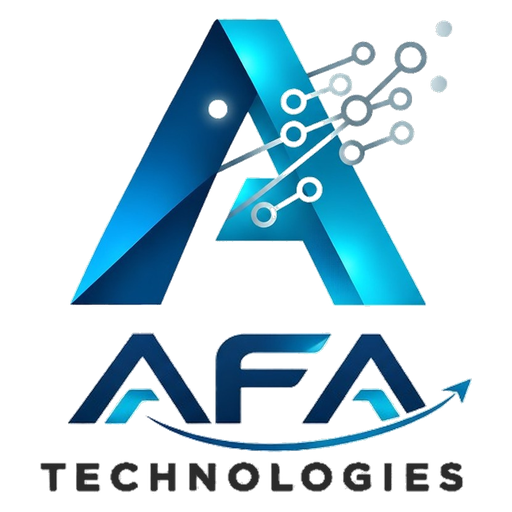
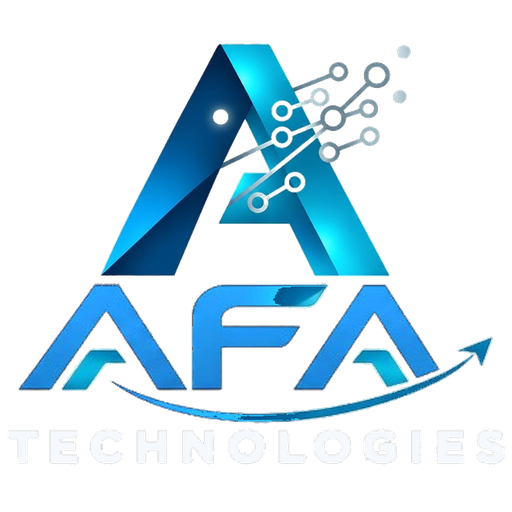
Enlarge AFA Technologies text and enhance visibility and contrast on dark background

Changed region(s): [[0.0312, 0.0312, 0.9688, 0.9688], [0.3438, 0.4375, 0.375, 0.5312]]

diff --git a/AFA-Technologies-Website.html b/AFA-Technologies-Website.html
@@ -79,7 +79,7 @@ ul{margin:0;padding:0;list-style:none}
 .site-header{position:sticky;top:0;z-index:50;height:var(--nav-h);background:rgba(255,255,255,.94);backdrop-filter:saturate(1.4) blur(12px);-webkit-backdrop-filter:saturate(1.4) blur(12px);border-bottom:1px solid var(--line)}
 .site-header .wrap{height:100%;display:flex;align-items:center;justify-content:space-between;gap:24px}
 .brand{display:flex;align-items:center;gap:12px;text-decoration:none}
-.brand img{height:52px;width:auto;object-fit:contain}
+.brand img{height:66px;width:auto;object-fit:contain}
 .brand-name{font-family:var(--display);font-weight:800;font-size:1.3rem;letter-spacing:-.02em;color:var(--navy-700);line-height:1}
 .brand-name small{display:block;font:600 .62rem/1 var(--body);letter-spacing:.32em;color:var(--muted);margin-top:5px;text-transform:uppercase}
 .nav{display:flex;align-items:center;gap:30px}
@@ -1841,7 +1841,7 @@ ul{margin:0;padding:0;list-style:none}
 }
 .footer-logo-img {
   width: auto;
-  height: 52px;
+  height: 74px;
   display: block;
   object-fit: contain;
 }
@@ -2748,7 +2748,7 @@ ul{margin:0;padding:0;list-style:none}
 <header class="site-header">
   <div class="wrap">
     <a class="brand" href="#home" aria-label="AFA Technologies, back to top">
-      <img src="images/logo.webp" alt="AFA Technologies" width="56" height="56" class="logo-img">
+      <img src="images/logo.webp" alt="AFA Technologies" width="68" height="68" class="logo-img">
     </a>
     <button class="nav-toggle" aria-label="Open menu" aria-expanded="false" aria-controls="nav"><span></span><span></span><span></span></button>
     <nav class="nav" id="nav" aria-label="Primary">
@@ -4354,7 +4354,7 @@ ul{margin:0;padding:0;list-style:none}
       <!-- Column 1: Brand & Strategic Positioning -->
       <div class="footer-col-brand">
         <a class="footer-brand-logo" href="#home" aria-label="AFA Technologies">
-          <img src="images/logo.webp" alt="AFA Technologies" width="60" height="60" class="footer-logo-img" />
+          <img src="images/logo.webp" alt="AFA Technologies" width="76" height="76" class="footer-logo-img" />
         </a>
         <p class="footer-brand-desc">
           AFA Technologies accelerates enterprise software &amp; B2B pipeline. We connect high-growth products with qualified enterprise buyers without the overhead of in-house sales hiring.

diff --git a/app/globals.css b/app/globals.css
@@ -63,7 +63,8 @@ ul{margin:0;padding:0;list-style:none}
 .site-header{position:sticky;top:0;z-index:50;height:var(--nav-h);background:rgba(255,255,255,.94);backdrop-filter:saturate(1.4) blur(12px);-webkit-backdrop-filter:saturate(1.4) blur(12px);border-bottom:1px solid var(--line)}
 .site-header .wrap{height:100%;display:flex;align-items:center;justify-content:space-between;gap:24px}
 .brand{display:flex;align-items:center;gap:12px;text-decoration:none}
-.brand img{height:52px;width:auto;object-fit:contain}
+.brand img{height:66px;width:auto;object-fit:contain;transition:transform .2s ease}
+.brand img:hover{transform:scale(1.03)}
 .brand-name{font-family:var(--display);font-weight:800;font-size:1.3rem;letter-spacing:-.02em;color:var(--navy-700);line-height:1}
 .brand-name small{display:block;font:600 .62rem/1 var(--body);letter-spacing:.32em;color:var(--muted);margin-top:5px;text-transform:uppercase}
 .nav{display:flex;align-items:center;gap:30px}
@@ -2048,9 +2049,13 @@ ul{margin:0;padding:0;list-style:none}
 
 .footer-logo-img {
   width: auto;
-  height: 52px;
+  height: 74px;
   display: block;
   object-fit: contain;
+  transition: transform .2s ease;
+}
+.footer-logo-img:hover {
+  transform: scale(1.03);
 }
 
 .footer-brand-desc {

diff --git a/app/admin/page.tsx b/app/admin/page.tsx
@@ -341,8 +341,8 @@ export default function AdminDashboardPage() {
               <Image
                 src="/images/logo.webp"
                 alt="AFA Technologies Logo"
-                width={38}
-                height={38}
+                width={46}
+                height={46}
                 className="admin-header-logo"
                 priority
               />

diff --git a/components/Footer.tsx b/components/Footer.tsx
@@ -20,8 +20,8 @@ export default function Footer() {
               <Image
                 src="/images/logo.webp"
                 alt="AFA Technologies"
-                width={60}
-                height={60}
+                width={76}
+                height={76}
                 className="footer-logo-img"
               />
             </a>

diff --git a/components/Header.tsx b/components/Header.tsx
@@ -43,8 +43,8 @@ export default function Header() {
           <Image
             src="/images/logo.webp"
             alt="AFA Technologies Logo"
-            width={56}
-            height={56}
+            width={68}
+            height={68}
             className="logo-img"
             priority
           />
